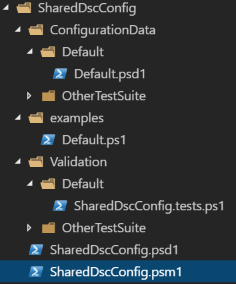
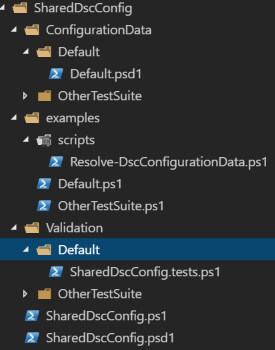
updating docs

diff --git a/README.md b/README.md
@@ -2,22 +2,51 @@
 
 This project is intended to suggest a new structure for sharing DSC Configuration, taking most of the ideas from Michael Greene in [the dscconfigurations repo](https://github.com/powershell/dscconfigurations).
 
-## Intent
-<div style="align:right"><img src ="./media/FileTree.png" / align='right'>
-The intent is to have a more familiar structure to standard PowerShell modules. Not only this would help user adoption by
-reducing the bar of entry, it would allow Build tools, tasks and scripts to be more standardized and re-usable.
+## Value Proposition
 
-- Allow direct re-use in Production (no copy-paste/modification of DSC Config or data)
-- Declare Dependencies in Module Manifest for Pulling requirements from gallery
-- Reduce bar of entry with familiar scaffolding
-- Embed default Configuration Data
+The value we're looking to provide, is to `do something similar to DSC Resource for System or Service Configurations.`
+
+We want to lower the bar of bootstrapping infrastructure with DSC, by re-using configurations of system or services people have built and shared.
+
+Using Geoffrey Moore's value proposition model:
+
+>For __People starting with Configuration Management__
+>
+>Who __need to deploy systems or services quickly__
+>
+>Our __configuration sharing guidelines__ is __a re-usable build system for DSC configurations__
+>
+>That __transforms Configuration into re-usable and composable DSC Composite Resources__
+
+
+
+## Intent
+
+<div style="align:right"><img src ="./media/FileTree.png" / align='right'>
+The intent is to:
+
+- simplify the way to consume a shared configuration
+- Allow direct re-use in new environment (no copy-paste/modification of DSC Config or data)
+- reduce the _cost_ of sharing, by automating the scaffolding (plaster), testing (pester, PSSA, Integration tests), building (Composite Resource), Publishing (PSGallery)
+- ensuring high quality, by allowing the use of a testing harness fit for TDD
+- Allow Build tools, tasks and scripts to be more standardized and re-usable
+- ensure quick and simple iterations during the development process
+
+To achieve the intent, we should:
+- provide a familiar scaffolding structure similar to PowerShell modules
+- create a model that can be self contained (or bootstrap itself with minimum dependencies)
 - Be CI/CD tool independant
+- Declare Dependencies in Module Manifest for Pulling requirements from a gallery
+- Embed default Configuration Data alongside configs
+- Provides guidelines, conventions and design patterns (i.e. re-using Configuration Data)
 - Support test-kitchen model (i.e. module injection, Test Suite)
-- De-Clutter module once published to Gallery (i.e. Removing .Build files)
+- De-Clutter module to upload by not including unecessary fiels (i.e. Removing .Build files)
 
 ## Ideas to discuss
 
-Below are ideas I think worth discussing and suggestion of implementation. Please raise issues to discuss them.
+Before going further it's good to have an understanding of [how the DSC resource and configurations works](./docs/ResourceAndConfigs.md), and the [different method of composition](./docs/composition.md) they offers.
+
+Below are ideas I think worth discussing and suggestions of implementation. Please raise issues to discuss them.
 
 ### Repository Structure
 The Shared Configuration should be self contained, but will require files for building/testing or development.
@@ -31,33 +60,28 @@ Adopting the 2 layers structure like so:
 Allows to place Project files like build, CI configs and so on at the top level, and everything under the second level are the files that need to be shared and will be uploaded to the PSGallery.
 
 
-Within that second layer, the Configuration looks like a standard module with some specificities, the benefits are multiple:
-- Familiar module layout
-- easy packaging
-- Explicit dependencies in psd1 (pull all in one command from gallery)
-- Metadata for gallery search
-
+Within that second layer, the Configuration looks like a standard module with some specificities.
 
 ### Configuration Data
 
 This is tricky to get right.
 
 The configuration data, IMO, should be managed in an 'override-only' way to preserve the cattle vs pet case. That is: 
-- everything is standard (the standard/best practice data being shared along the configuration script), 
-- but can be overriden in specific cases when required.
+- everything is standard (the standard/best practice data being shared alongside the configuration script), 
+- but can be overriden in specific cases when required (overriding a domain name, certificate and so on).
 
-This cannot be done out of the box, but it's possible using custom scripts or module, as I intend in my [Datum](https://github.com/gaelcolas/datum) module.
+This cannot be done out of the box (without tooling), but it's possible using custom scripts or module, as I intend to with my [Datum](https://github.com/gaelcolas/datum) module.
 
-The challenge is then to manage the config data for a shared config in a way compatible with using a Configuration Data management module such as Datum.
+The challenge is then to manage the config data for a shared config in a way compatible with using a Configuration Data management module or function.
 
 
 I see two possible approach:
-- Conform with the most documented approach which is to cram properties under statically define values in hashtable: i.e. `$Node.Role.property` or `$AllNodes.Role.Property`
+- Conform with the most documented approach which is to cram properties under statically define values in hashtable: i.e. `$Node.Role.property` or `$AllNodes.Role.Property`, but that is very hacky or does not scale
 - Introduce the less documented, more flexible way to resolve a property for the current Node via a function: i.e. `Resolve-DscProperty -Node $Node -PropertyPath 'Role\Property'`
 
-The second one is more flexible, but probably needs some time and a lot of communication before taking precedence over the static way.
+The second one is more flexible (anyone can create their custom one), but probably needs some time and a lot of communication before taking precedence over the static way.
 
-We could provide a standard, simple function to resolve the static properties when creating Shareable configurations, where the logic can be overriden where consuming that shared configuration.
+We could [provide a standard, simple function](./SharedDscConfig/examples/scripts/Resolve-DscConfigurationData.ps1) to resolve the static properties when creating Shareable configurations, where the logic can be overriden where consuming that shared configuration.
 
 ```PowerShell
 function Resolve-DscConfigurationData {
@@ -86,12 +110,11 @@ function Resolve-DscConfigurationData {
 }
 Set-Alias -Name ConfigData -value Resolve-DscConfigurationData
 Set-Alias -Name DscProperty -value Resolve-DscConfigurationData
-Set-Alias -Name DscProp -value Resolve-DscConfigurationData
 ```
 
 This Allows to resolve static data so that: 
 ```PowerShell
-DscProp -Node @{
+DscProperty -Node @{
         NodeName='localhost';
         a=@{
             b=122
@@ -106,12 +129,12 @@ Doing so would allow to have functions to lookup for Configuration Data from the
 <div style="align:right"><img src ="./media/rootTree.png" / align='right'>
 The root of the tree would be similar to a module root tree where you have supporting files for, say, the CI/CD integration.
 
-In this example, I'm showing (although currently empty) what I usually do:
+In this example, I'm illustrating the idea with:
 - a .Build.ps1 that defines the build workflow by composing tasks (see [SampleModule](https://github.com/gaelcolas/SampleModule))
 - a .build/ folder, which includes the minimum tasks to bootstrap + custom ones
 - the .gitignore where folders like BuildOutput or kitchen specific files are added (`module/`)
-- the Dependencies.psd1, so that the build process can use PSDepend to pull any prerequisites to build that project
-- the test-kitchen configuration file (for kitchen CI integration)
+- the [Dependencies.psd1](./Dependencies.psd1), so that the build process can use [PSDepend](https://github.com/RamblingCookieMonster/PSDepend/) to pull any prerequisites to build that project
+- the test-kitchen configuration file (omitting the driver, so that it can be set on a global/local config based on the user's environment/platform)
 - the appveyor configuration file (for appveyor CI integration)
 - supporting files like License, Readme, media...
 

diff --git a/docs/kitchen.md b/docs/kitchen.md
@@ -1,0 +1,39 @@
+# Kitchen
+
+Here's the documentation about using Test-Kitchen with this model.
+
+## Kitchen YAMLs
+
+I already Blogged about the architecture of the Yaml configuration files, but the rough idea is at it segments the following:
+- Driver: Virtualization/Cloud/Containerization management config for nodes to test on (SUT)
+- Transport: Protocol (Ssh or WinRM) Test-kitchen uses to communicate with the SUT
+- Provisioner: Mechanism to apply the configuration (DSC but could be Chef/Puppet/Ansible...)
+- verifier: Tool that will be run to validate the applied configuration (Pester, Inspec...)
+- Platforms: each platforms you want the test suites to run on (i.e. Win2016,2012R2,Win10...)
+- suites: Different test cases you setup for your configurations on different nodes. Configurations are matched with their tests (so the `Default` configuration will apply, then the `Default` test will run to validate)
+
+
+On a side note, the Platforms x suites creates the test matrix to run.
+If you have 3 Platforms, and 1 test suites, you'll have 3 test cases.
+If you have 3 platforms, and 2 test suites, you'll end up with 6 test cases.
+
+## Composing Kitchen YAMLs
+
+The problem with defining every bits into a single .kitchen.yml configuration file in the repository, is that some information is specific to your environment (the driver depends on where you want to create your SUTs: HyperV, Vagrant...), while some are specific to your project (where to find the DSC configuration script to run to generate the MOF).
+
+The neat thing about kitchen yamls, is that you can split them in 3 different layers that are merged at runtime, by changing where Test-Kitchen will look for those layers via use of Environment variables.
+
+One way to go about this is to define the following:
+- Point the Global YAML configuration to a .kitchen.global.yml that has only the Driver configuration. (For instance, I set it at User level to use the vsphere instance at work, and Hyper-V on my laptop). I set the `$Env:KITCHEN_GLOBAL_YAML = "C:\Users\$Env:USERNAME\kitchen.global.yml"` in my PS Profile.
+- The [standard YAML configuration `.kitchen.yml` ](./.kitchen.yml)  which defines project-specific information should ommit the driver block (as it changes from environment to environment), but should be committed in the repository (so if I have a globally defined driver, I can run the test suites as intended)
+- The Local yaml `.kitchen.local.yml`, when it exists, can override any of the above. This is useful during development when you want to override some settings, without affecting others working on the same project. That one should not be committed to source control. You set this by doing `$Env:KITCHEN_LOCAL_YAML= '.kitchen.local.yml'`
+
+However, you can leverage the same principle when you want to overrides some project specific information for specific environment. The Chef community sometimes creates a `.kitchen.azure.yml` for setting Azure specific information when the build runs in (or against) Azure.
+The build script or CI tool uses conditional statement so that for instance:
+```PowerShell
+switch ($Env:BHBuildSystem) { # using BuildHelpers module
+    'appveyor' { `$Env:KITCHEN_LOCAL_YAML= '.kitchen.azure.yml'` }
+    # ... 
+    default {`$Env:KITCHEN_LOCAL_YAML= '.kitchen.local.yml'` }
+}
+```

diff --git a/DscBuildOutput/README.md b/DscBuildOutput/README.md
@@ -1,0 +1,6 @@
+# Build Output folder
+
+Sometimes you just want to make sure the MOF can be built locally, without trying to converge it, for a fast feedback.
+This is useful to validate that the process works, for instance making sure that the Config Data is not missing pieces, such as all required parameters to a resource are set (and not $null).
+
+Another reason is when you have a working configuration and you want to push it to a remote system. You can compile the MOF, and push it to a remote machine (i.e. using my DscBuildHelpers\Push-DscConfiguration).
